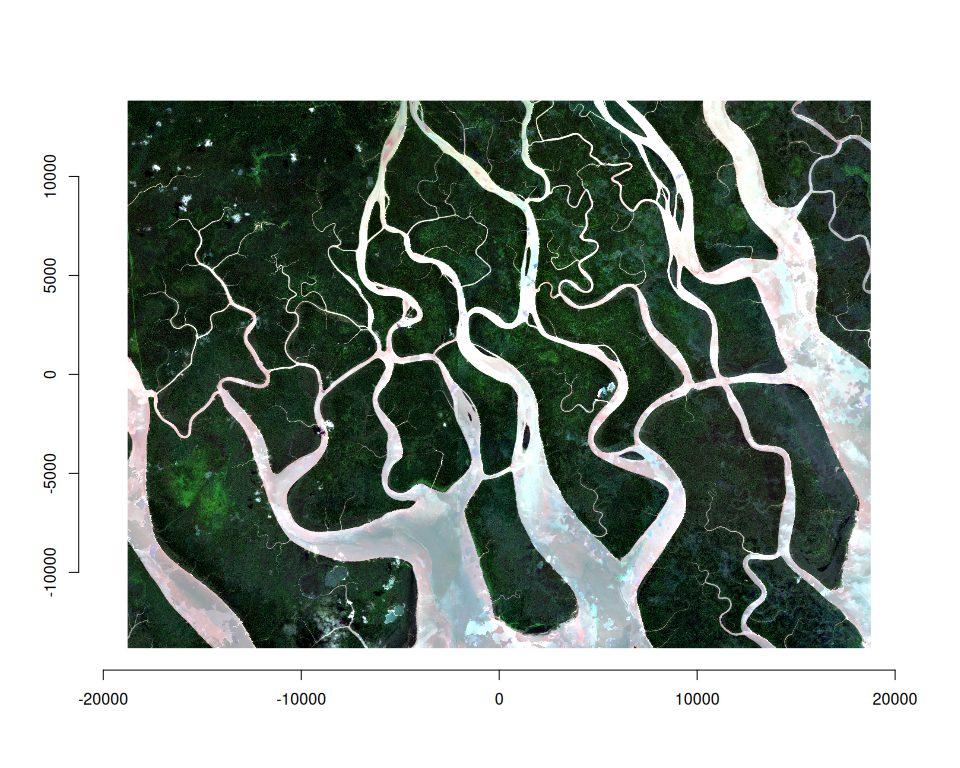
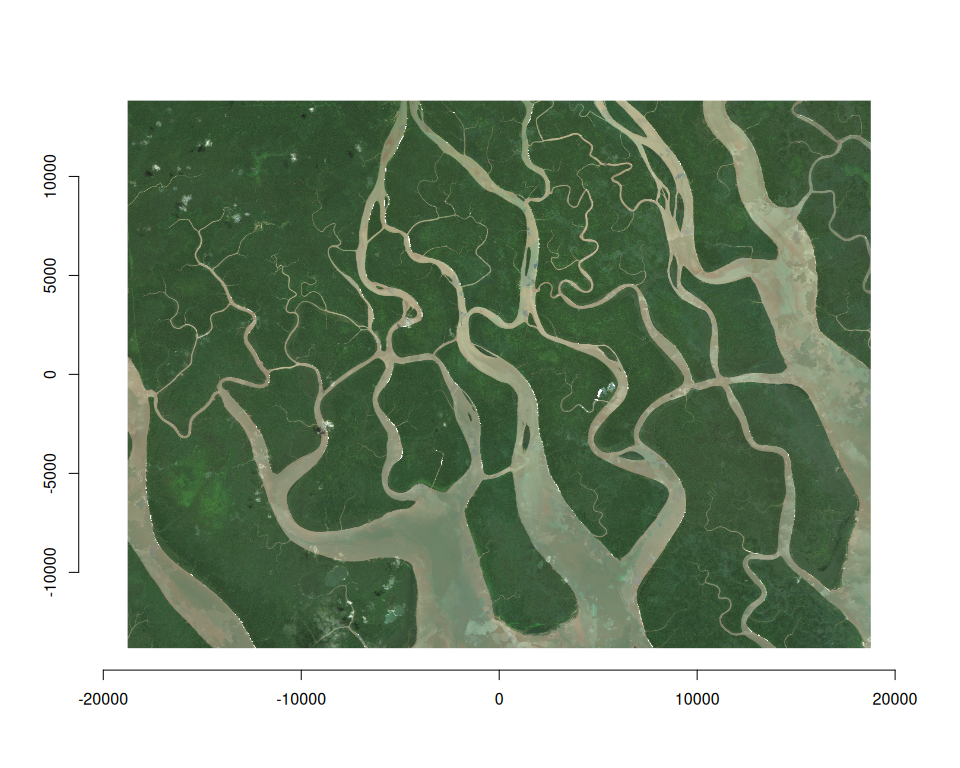
readme and docs

diff --git a/README.md b/README.md
@@ -12,19 +12,26 @@ experimental](https://img.shields.io/badge/lifecycle-experimental-orange.svg)](h
 The goal of vrtility is to make the best use of GDAL’s VRT capabilities
 for efficient processing of large raster datasets - mainly with Earth
 Observation in mind. This package’s primary focus is on the use of GDAL
-VRT pixel functions using [numba](https://numba.pydata.org/). At present
-the only function provided is a simple median. Things are under active
-development! Comments and contributions are most welcome!
+VRT pixel functions using python. These python pixel functions are used
+to apply cloud masks and summarise pixel values (e.g. median) from
+multiple images (i.e create a composite image). For now we’re just using
+the python pixel function capabilities but hope to add C++ or
+expressions in time.
 
 ## Features
 
 - No intermediate downloads - the use of nested VRTs enables the
   download and processing of only the required data in a single gdalwarp
-  call.
+  call. This reduces disk read/write time.
 
-- use of numba in python pixel function(s)
+- use of numba in python pixel function(s) - not always faster but can
+  be.
 
-- modular design
+- modular design: We’re basically creating remote sensing pipelines
+  using nested VRTs. This allows for the easy addition of new pixel
+  functions and masking functions. but could easily be adapted for
+  deriving spectral indices or calculating complex time series
+  functions.
 
 ## TO DO:
 
@@ -105,29 +112,24 @@ median_composite <- vrt_collect(
   t_srs = trs, te = te, tr = c(10, 10), mask_band = "SCL"
 ) |>
   vrt_set_maskfun(,
-    valid_bits = c(4, 5, 6, 7, 11),
-    mask_pixfun = bitmask_numpy
+    valid_bits = c(4, 5, 6, 7, 11)
   ) |>
   vrt_stack() |>
-  vrt_set_pixelfun(
-    pixfun = numpy_median
-  ) |>
+  vrt_set_pixelfun() |>
   vrt_warp(
-    outfile = fs::file_temp(ext = "tif")
+    outfile = fs::file_temp(ext = "tif"),
+    quiet = TRUE
   )
-#> 0...10...20...30...40...50...60...70...80...90...100 - done.
-```
-
-``` r
 toc()
-#> 118.643 sec elapsed
+#> 124.631 sec elapsed
 ```
 
 ``` r
 
 plot_raster_src(
   median_composite,
-  c(3, 2, 1)
+  c(3, 2, 1),
+  minmax_def = c(rep(750, 3), rep(2750, 3))
 )
 ```
 
